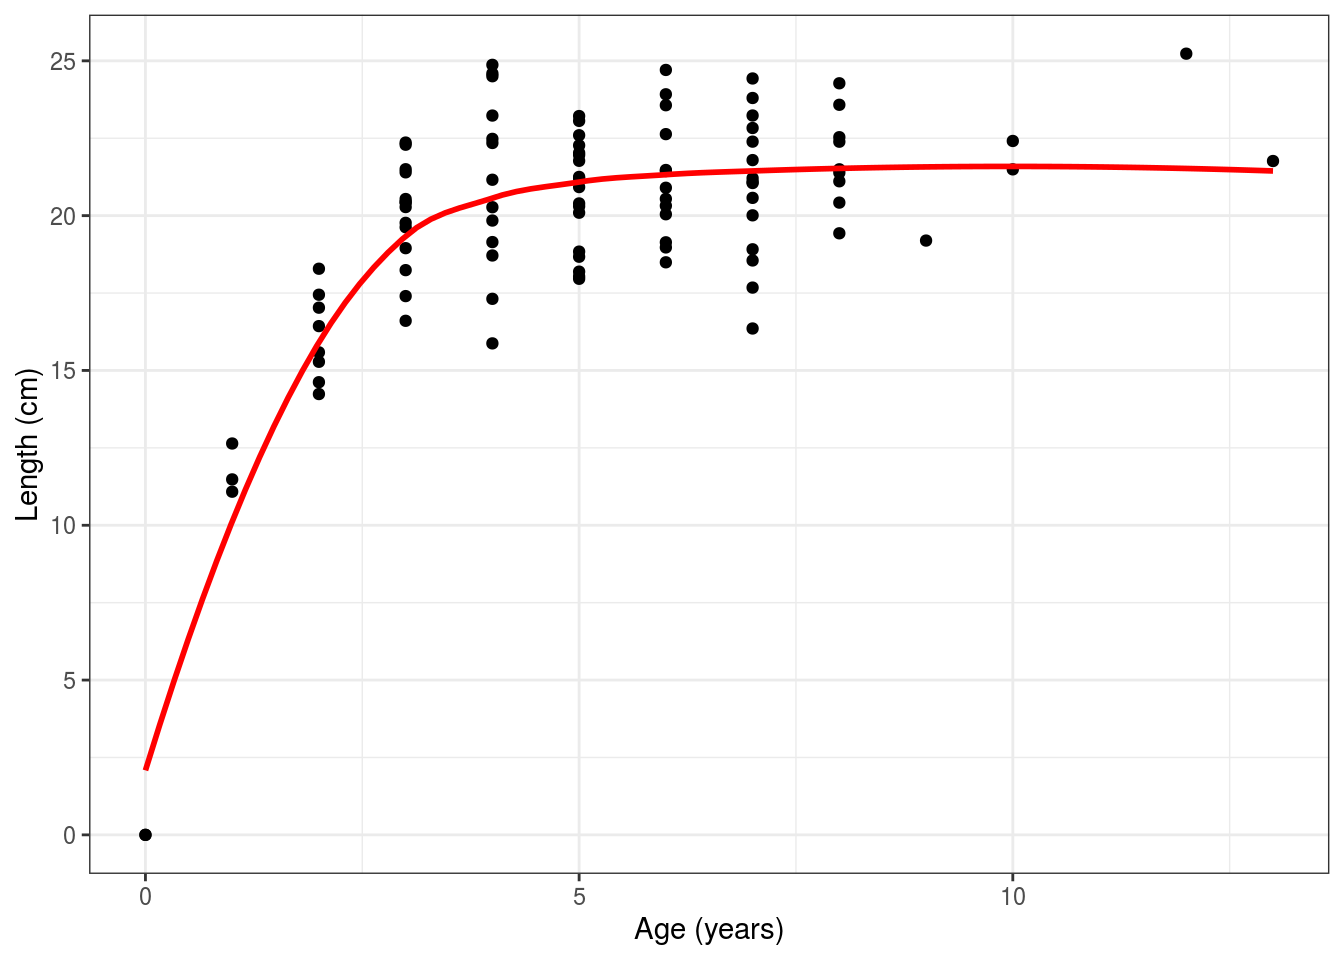
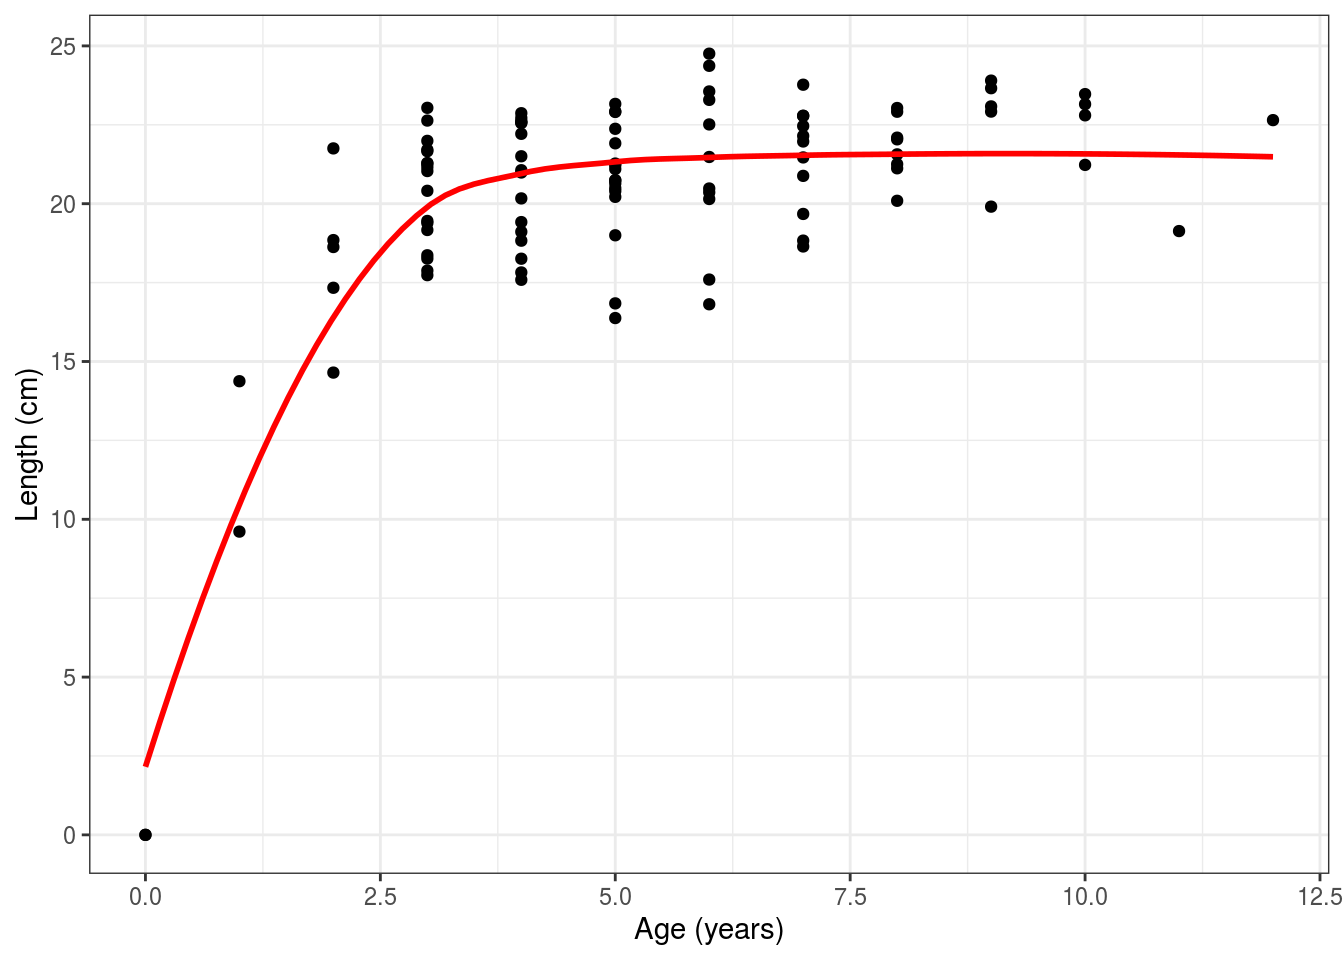
add solution part 2

diff --git a/content/post/2020-12-09-td-ecosystem-functions-class/index.html b/content/post/2020-12-09-td-ecosystem-functions-class/index.html
@@ -66,16 +66,16 @@ First things first, let’s simulate some data to use. Copy the code block below
 ## 
 ## Parameters:
 ##       Estimate Std. Error t value Pr(&gt;|t|)    
-## linf 21.514059   0.290216  74.131   &lt;2e-16 ***
-## k     0.779824   0.073162  10.659   &lt;2e-16 ***
-## t0    0.009075   0.079532   0.114    0.909    
+## linf 21.556083   0.256996  83.877   &lt;2e-16 ***
+## k     0.890616   0.088749  10.035   &lt;2e-16 ***
+## t0    0.004186   0.067155   0.062     0.95    
 ## ---
 ## Signif. codes:  0 &#39;***&#39; 0.001 &#39;**&#39; 0.01 &#39;*&#39; 0.05 &#39;.&#39; 0.1 &#39; &#39; 1
 ## 
-## Residual standard error: 1.997 on 97 degrees of freedom
+## Residual standard error: 1.88 on 97 degrees of freedom
 ## 
-## Number of iterations to convergence: 4 
-## Achieved convergence tolerance: 5.865e-06</code></pre>
+## Number of iterations to convergence: 5 
+## Achieved convergence tolerance: 3.919e-06</code></pre>
 <p>Now add a column to our dataframe with the predictions and make a figure. (<strong>TIP</strong> If you use ggplot2, use the geom_smooth() option)</p>
 <pre class="r"><code>data &lt;- data %&gt;%
   mutate(l_predict = predict(fit))
@@ -173,5 +173,29 @@ summary &lt;- group_by(data, site) %&gt;%
 <p>Make a barplot of each function per site.
 (<strong>TIP</strong> If you use ggplot2, use geom_col() )<br />
 Which site has the highest function?</p>
+<pre class="r"><code>ggplot(summary) +
+  geom_col(aes(x = site, y = N_ex), alpha = 0.9) +
+  scale_fill_fish_d() +
+  theme_bw() +
+  labs(x = &quot;Site&quot;, y = &quot;N excretion (g N/day)&quot;)</code></pre>
+<p><img src="index_files/figure-html/unnamed-chunk-9-1.png" width="672" /></p>
+<pre class="r"><code>ggplot(summary) +
+  geom_col(aes(x = site, y = biomass), alpha = 0.9) +
+  scale_fill_fish_d() +
+  theme_bw() +
+  labs(x = &quot;Site&quot;, y = &quot;Biomass (g)&quot;)</code></pre>
+<p><img src="index_files/figure-html/unnamed-chunk-9-2.png" width="672" /></p>
+<pre class="r"><code>ggplot(summary) +
+  geom_col(aes(x = site, y = biomass_prod), alpha = 0.9) +
+  scale_fill_fish_d() +
+  theme_bw() +
+  labs(x = &quot;Site&quot;, y = &quot;Biomass production (g/day)&quot;)</code></pre>
+<p><img src="index_files/figure-html/unnamed-chunk-9-3.png" width="672" /></p>
+<pre class="r"><code>ggplot(summary) +
+  geom_col(aes(x = site, y = bioerosion), alpha = 0.9) +
+  scale_fill_fish_d() +
+  theme_bw() +
+  labs(x = &quot;Site&quot;, y = &quot;Bioerosion (g CaCO3/day)&quot;)</code></pre>
+<p><img src="index_files/figure-html/unnamed-chunk-9-4.png" width="672" /></p>
 <p><strong>Bonus</strong>: Summarize per site and species and investigate the contribution of each species to each function. Make a barplot colored per species (Tip: use fill for this). Which species contributes the most to each function?</p>
 </div>
